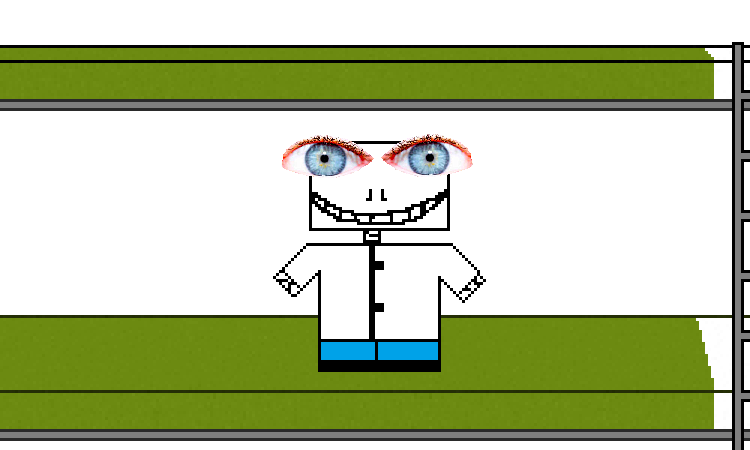
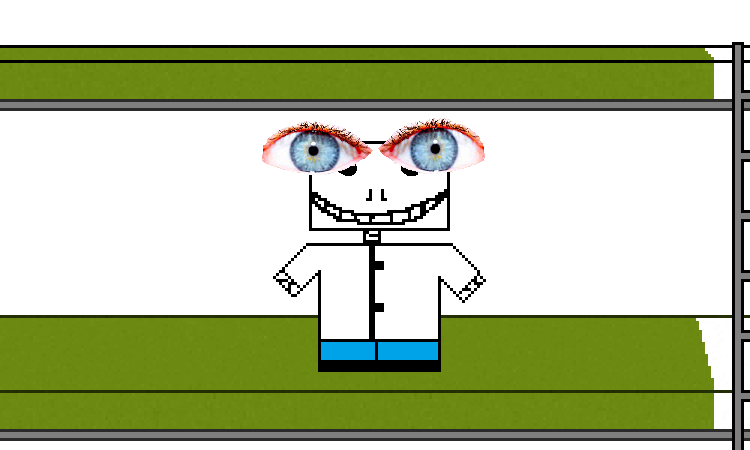
Organization of Assets.py, additions to bunk bed spooky

Changed region(s): [[0.3373, 0.2489, 0.644, 0.4044]]

diff --git a/Assets.py b/Assets.py
@@ -144,11 +144,6 @@ for i in range(14):
     squished = pygame.transform.scale(pipes[i], (41, 11))
     squishedPipes2.append(squished)
 
-tooDarkRead = pygame.image.load("Assets/TooDark.png")
-tooDarkSee = pygame.image.load("Assets/TooDarkSee.png")
-trashEmpty = pygame.image.load("Assets/trashEmpty.png")
-somethingInside = pygame.image.load("Assets/somethingInside.png")
-
 letterTiles = load_tileset("Assets/letters.png", 21, 41)
 numberTiles = load_tileset("Assets/numbers.png", 21, 41)
 
@@ -161,9 +156,28 @@ unequipButton = pygame.image.load("Assets/unequipButton.png")
 breakerBox = pygame.image.load("Assets/breaker.png")
 
 locker = pygame.image.load("Assets/locker.png")
+toolboxGround = pygame.image.load("Assets/ToolboxGround.png")
+
+puddle1 = pygame.image.load("Assets/Puddle1.png")
+puddle2 = pygame.image.load("Assets/Puddle2.png")
+puddle3 = pygame.image.load("Assets/Puddle3.png")
+
+trianglePuzzleCorner = pygame.image.load("Assets/trianglePuzzleCorner.png")
+trianglePuzzleBackground = pygame.image.load("Assets/trianglePuzzleBackground.png")
 
 bedBackgroundLeft = pygame.image.load("Assets/BedView.png")
 bedBackgroundRight = pygame.transform.flip(bedBackgroundLeft, True, False)
+
+eye = pygame.image.load("Assets/EYE.png")
+movingEyes = []
+for i in range(1, 9):
+    movingEyes.append(pygame.image.load(f"Assets/movingEYE{i}.png"))
+
+### TEXT
+tooDarkRead = pygame.image.load("Assets/TooDark.png")
+tooDarkSee = pygame.image.load("Assets/TooDarkSee.png")
+trashEmpty = pygame.image.load("Assets/trashEmpty.png")
+somethingInside = pygame.image.load("Assets/somethingInside.png")
 
 ### ITEMS
 pinkKeycard = pygame.image.load("Assets/pink_keycard.png")
@@ -192,14 +206,6 @@ brokenThermometerGround = pygame.image.load("Assets/BrokenThermometerInv.png")
 
 letterTile = pygame.image.load("Assets/letter_tile.png")
 
-trianglePuzzleCorner = pygame.image.load("Assets/trianglePuzzleCorner.png")
-trianglePuzzleBackground = pygame.image.load("Assets/trianglePuzzleBackground.png")
-
-toolboxGround = pygame.image.load("Assets/ToolboxGround.png")
 multiInv = pygame.image.load("Assets/multimeterInv.png")
 multimeter = pygame.image.load("Assets/multimeter.png")
 multimeter_toggled = pygame.image.load("Assets/multimeter_flipped.png")
-
-puddle1 = pygame.image.load("Assets/Puddle1.png")
-puddle2 = pygame.image.load("Assets/Puddle2.png")
-puddle3 = pygame.image.load("Assets/Puddle3.png")

diff --git a/Rooms/BedView.py b/Rooms/BedView.py
@@ -56,6 +56,8 @@ def Room(screen, screen_res, events):
         virtual_screen.blit(backgroundRight, backgroundRight.get_rect())
 
     virtual_screen2.blit(spookyBackground, spookyBackground.get_rect())
+    scaledEye = pygame.transform.scale(Assets.eye, (Assets.eye.get_width()/4, Assets.eye.get_height()/4))
+    virtual_screen2.blit(scaledEye, (360,90), Assets.eye.get_rect())
 
     for event in events:
         if event.type == pygame.KEYDOWN:

diff --git a/Sounds.py b/Sounds.py
@@ -33,8 +33,6 @@ combo = pygame.mixer.Sound("Audio/combo.wav")
 powerOn = pygame.mixer.Sound("Audio/powerOnAmbStart.wav")
 powerOnAmb = pygame.mixer.Sound("Audio/powerOnAmb.wav")
 
-openingDoor = pygame.mixer.music.load("Audio/opensesame.wav")
-
 mopSound = pygame.mixer.Sound("Audio/mopsounds.wav")
 
 electricityNoise = pygame.mixer.Sound("Audio/ElectricityNoise.wav")
